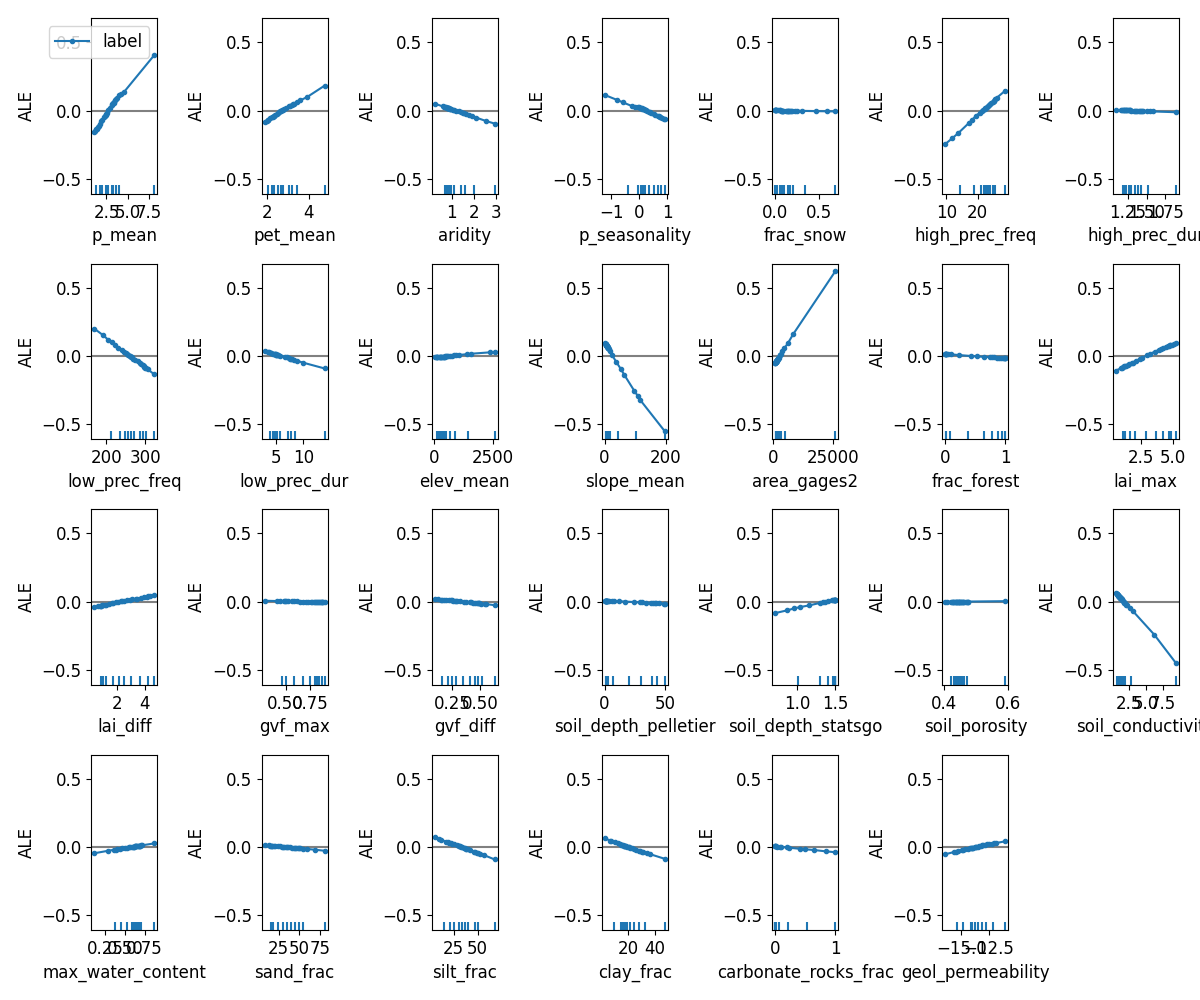
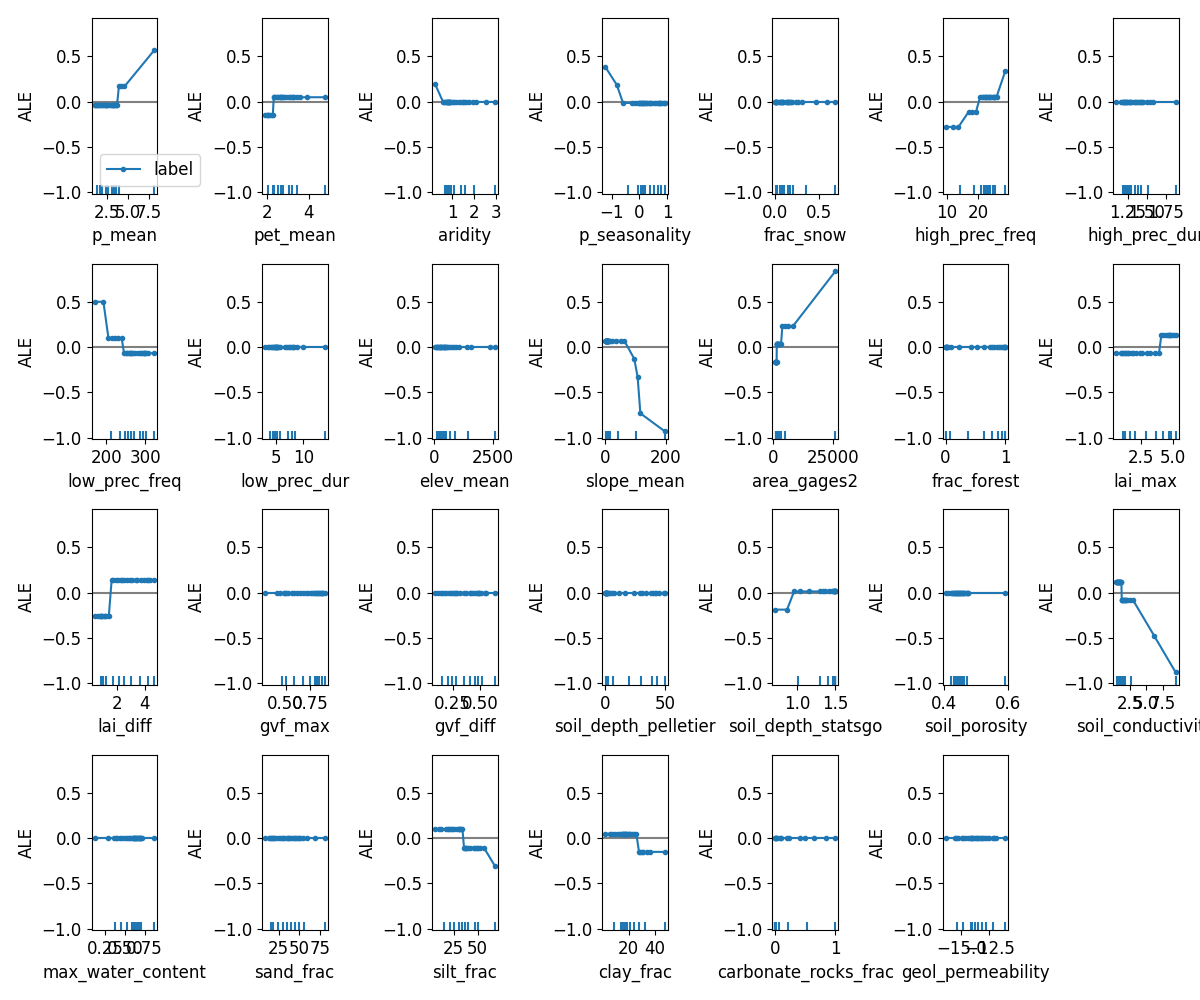
adding more plots + fixes

diff --git a/src/analyse_results_NSE_basins.py b/src/analyse_results_NSE_basins.py
@@ -20,6 +20,7 @@ import geopandas as gpd
 from shapely.geometry import box
 from matplotlib import colormaps as cm
 from sklearn.preprocessing import StandardScaler
+from sklearn.metrics import accuracy_score
 
 
 def print_locations_on_world_map(df_locations, color, use_map_axis):
@@ -35,6 +36,9 @@ def print_locations_on_world_map(df_locations, color, use_map_axis):
 
 def plot_lon_lat_on_world_map(csv_results_file_with_static_attr):
     df_results = pd.read_csv(csv_results_file_with_static_attr)
+    df_results = df_results.select_dtypes(include=[np.number]).dropna(how='all')
+    df_results = df_results.fillna(df_results.mean())
+    print(df_results.corr())
     df_results["label"] = np.where(df_results['NSE_CNN_LSTM_135'] > df_results['NSE_LSTM_135'], 1, 0)
     df_results_label_is_zero = df_results[df_results["label"] == 0]
     df_results_label_is_one = df_results[df_results["label"] == 1]
@@ -50,7 +54,7 @@ def plot_lon_lat_on_world_map(csv_results_file_with_static_attr):
 
 def create_accumulated_local_effects(csv_results_file_with_static_attr, clf):
     clf, df_results = fit_clf_analysis(csv_results_file_with_static_attr, clf, False)
-    fun_clf = (lambda x: clf.predict_proba(x)[:, 1])
+    fun_clf = (lambda x: clf.predict(x))
     ale_clf = ALE(fun_clf, feature_names=CAMELS_dataset.STATIC_ATTRIBUTES_NAMES, target_names=["label"])
     exp_clf = ale_clf.explain(df_results.to_numpy()[:, :-1])
     plot_ale(exp_clf, n_cols=7, fig_kw={'figwidth': 12, 'figheight': 10})
@@ -70,6 +74,8 @@ def fit_clf_analysis(csv_results_file_with_static_attr, clf, scale_data=True):
         scaler = StandardScaler()
         X_train = scaler.fit_transform(X_train)
     clf.fit(X_train, df_results["label"])
+    score = accuracy_score(clf.predict(X_train), df_results["label"])
+    print(f"the accuracy score of cls: {clf.__class__} is: {score}")
     return clf, df_results
 
 
@@ -140,7 +146,7 @@ def create_CAMELS_dataset():
         validation_end_date="30/09/1992",
         test_start_date="01/10/1992",
         test_end_date="30/09/1997",
-        stage="train",
+        stage="validation",
         model_name="CNN_LSTM",
         sequence_length_spatial=185,
         create_new_files=False,
@@ -228,8 +234,7 @@ def create_class_activation_maps_explainable(checkpoint_path):
 
 def main():
     plot_lon_lat_on_world_map("17775252_17782018_17828539_17832148.csv")
-    # create_class_activation_maps_explainable(
-    #     "/sci/labs/efratmorin/ranga/FloodMLRan/checkpoints/TWO_LSTM_CNN_LSTM_epoch_number_30_size_above_1000.pt")
+    # create_class_activation_maps_explainable("../checkpoints/TWO_LSTM_CNN_LSTM_epoch_number_30_size_above_1000.pt")
     plt.rc('font', size=12)
     analyse_results_by_decision_tree("17775252_17782018_17828539_17832148.csv")
     analyse_results_feat_importance_by_logistic_regression("17775252_17782018_17828539_17832148.csv")
